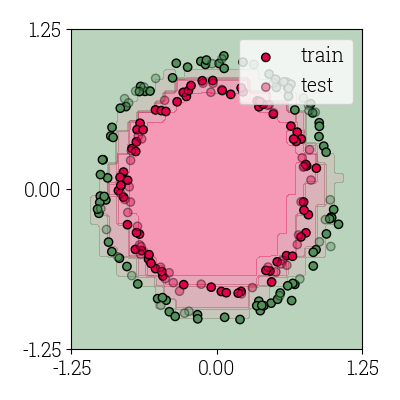
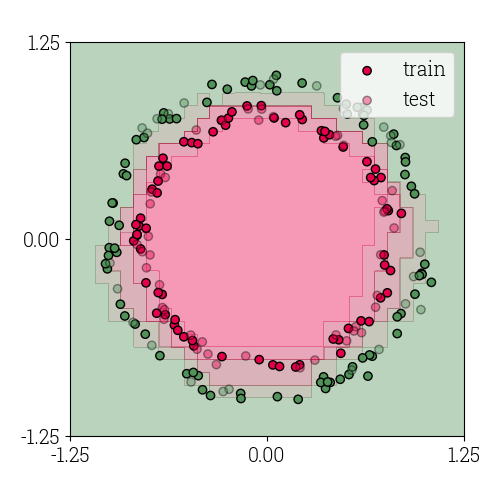
Update mlp_quantization_analysis

Changed region(s): [[0.03, 0.06, 0.96, 0.96]]

diff --git a/extra/mlp_quantization_analysis/mlp_quantization_analysis.py b/extra/mlp_quantization_analysis/mlp_quantization_analysis.py
@@ -12,14 +12,11 @@ from tempfile import NamedTemporaryFile
 import matplotlib
 from matplotlib import font_manager
 from matplotlib.colors import ListedColormap
-from sklearn.datasets import make_circles
-from sklearn.model_selection import train_test_split
 import torch
-from torch.utils.data import TensorDataset, DataLoader
 import matplotlib.pyplot as plt
 
+from extra.mlp_quantization_analysis.torch_model import get_torch_model
 from numpy_quant.model import Model
-from numpy_quant.tensor import FTensor
 
 
 def get_google_fonts_ttf(weight: int):
@@ -428,59 +425,8 @@ def create_quantized_inference_script(inp: np.ndarray,
     return script
 
 
-class MultiLayerPerceptron(torch.nn.Module):
-    def __init__(self, input_size, hidden_size, output_size):
-        super(MultiLayerPerceptron, self).__init__()
-        self.input_size = input_size
-        self.hidden_size = hidden_size
-        self.output_size = output_size
-        self.fc1 = torch.nn.Linear(self.input_size, self.hidden_size, bias=True)
-        self.relu = torch.nn.ReLU()
-        self.fc2 = torch.nn.Linear(self.hidden_size, self.output_size, bias=True)
-        self.sigmoid = torch.nn.Sigmoid()
-
-    def forward(self, x):
-        hidden = self.fc1(x)
-        relu = self.relu(hidden)
-        output = self.fc2(relu)
-        output = self.sigmoid(output)
-        return output
-
-
-if __name__ == "__main__":
-    np.random.seed(0)
-    torch.manual_seed(1)
-
-    print("MLP Dataset")
-    n_samples = 1000
-    X, Y = make_circles(n_samples=n_samples, noise=0.03)
-    X = np.array(X, dtype=np.float32)
-    X_train, X_test, Y_train, Y_test = train_test_split(X, Y, train_size=0.7, random_state=0)
-    Y_train_one_hot = np.eye(2, dtype=np.float32)[Y_train]  # One-Hot encoding
-    trainset = TensorDataset(torch.tensor(X_train), torch.tensor(Y_train_one_hot))
-    trainloader = DataLoader(trainset, batch_size=1)
-
-    print("MLP Model Creation")
-    torch_model = MultiLayerPerceptron(input_size=X.shape[1], hidden_size=5, output_size=X.shape[1])
-
-    print("MLP Training")
-    optimizer = torch.optim.SGD(torch_model.parameters(), lr=0.2)
-    criterion = torch.nn.CrossEntropyLoss()
-    for epoch in range(10):
-        average_loss = 0.0
-        for i, (x, y) in enumerate(trainloader):
-            optimizer.zero_grad()
-            outputs = torch_model(x)
-            loss = criterion(outputs, y)
-            loss.backward()
-            optimizer.step()
-
-            average_loss += loss.item()
-        average_loss /= len(trainset)
-        test_outputs = torch_model(torch.tensor(X_test, requires_grad=False)).detach().numpy()
-        acc = np.mean(test_outputs.argmax(axis=1) == Y_test)
-        print(f" - Epoch: {epoch:2d}, Mean Accuracy: {acc:.2f}, Average Loss: {average_loss:.2f}")
-
+def get_model():
+    torch_model, X_train, X_test, Y_train, Y_test = get_torch_model()
     print("MLP ONNX export")
     args = torch.Tensor(X_test)
     onnx_model_bytes = io.BytesIO()
@@ -498,6 +444,12 @@ if __name__ == "__main__":
     onnx.checker.check_model(onnx_model)
 
     model = Model.from_onnx(onnx_model)
+
+    return model, X_train, X_test, Y_train, Y_test
+
+
+if __name__ == "__main__":
+    model, X_train, X_test, Y_train, Y_test = get_model()
 
     # Store all tensors of the model
     model_value_dict = {v.name: v for v in model.values}
@@ -641,7 +593,7 @@ if __name__ == "__main__":
     # # Create markdown table of the script's output
     z_f32, z_round_trip = perform_quantized_matmul(x1, True, x2, True, bit_width=8)
     table = create_np_array_markdown_table({"f32 matmul": z_f32,
-                                            "quantized mamtul": z_round_trip,
+                                            "quantized matmul": z_round_trip,
                                             "error": np.abs(z_f32 - z_round_trip)})
     with open("matmul_quantization_outputs/matmul_quantization_output.md", "w") as f:
         f.write(table)
@@ -745,9 +697,12 @@ if __name__ == "__main__":
         ax.set_title("Quantization accuracy drop for varying bit widths")
         ax.set_xlabel("bit width")
         ax.set_ylabel("test accuracy")
-        ax.plot(bit_widths, q_acc_w_asymm_a_asymm, color=main_colors[3], label="asymmetric weights, asymmetric activations")
-        ax.plot(bit_widths, q_acc_w_asymm_a_symm, color=main_colors[2], label="asymmetric weights, symmetric activations")
-        ax.plot(bit_widths, q_acc_w_symm_a_asymm, color=main_colors[1], label="symmetric weights, asymmetric activations")
+        ax.plot(bit_widths, q_acc_w_asymm_a_asymm, color=main_colors[3],
+                label="asymmetric weights, asymmetric activations")
+        ax.plot(bit_widths, q_acc_w_asymm_a_symm, color=main_colors[2],
+                label="asymmetric weights, symmetric activations")
+        ax.plot(bit_widths, q_acc_w_symm_a_asymm, color=main_colors[1],
+                label="symmetric weights, asymmetric activations")
         ax.plot(bit_widths, q_acc_w_symm_a_symm, color=main_colors[0], label="symmetric weights, symmetric activations")
         ax.legend(fontsize=10)
         ax.set_xticks(bit_widths)
@@ -762,9 +717,9 @@ if __name__ == "__main__":
     # Visualize Model Prediction
     def visualize_model_prediction(bit_width: int | None = None):
         xmin, xmax = -1.25, 1.25
-        x = np.linspace(xmin, xmax, 100, dtype=np.float32)
+        x = np.linspace(xmin, xmax, 1000, dtype=np.float32)
         ymin, ymax = -1.25, 1.25
-        y = np.linspace(ymin, ymax, 100, dtype=np.float32)
+        y = np.linspace(ymin, ymax, 1000, dtype=np.float32)
         xv, yv = np.meshgrid(x, y)
         grid_input = np.concatenate((xv.reshape((-1, 1)), yv.reshape((-1, 1))), axis=1)
         # grid_output = _model([FTensor(grid_input)])[0].data
@@ -774,7 +729,7 @@ if __name__ == "__main__":
             grid_output = run_quantized_mlp_inference(grid_input, bit_width=bit_width)[1]
         zv = grid_output[:, 1].reshape((x.shape[0], y.shape[0]))
 
-        fig, ax = plt.subplots(1, 1, tight_layout=True, figsize=(4, 4))
+        fig, ax = plt.subplots(1, 1, tight_layout=True, figsize=(5, 5))
 
         ax.contourf(x, y, zv, cmap=color_gradient_color_map, alpha=0.4)
         n_train = 150
@@ -787,6 +742,7 @@ if __name__ == "__main__":
         ax.set_xticks(xticks, [f"{t:.2f}" for t in xticks])
         yticks = np.linspace(ymin, ymax, 3)
         ax.set_yticks(yticks, [f"{t:.2f}" for t in yticks])
+        ax.set_aspect('equal')
         ax.legend(loc="upper right")
         return fig, ax
 

diff --git a/extra/mlp_quantization_analysis/torch_model.py b/extra/mlp_quantization_analysis/torch_model.py
@@ -1,0 +1,61 @@
+import numpy as np
+from sklearn.datasets import make_circles
+from sklearn.model_selection import train_test_split
+import torch
+from torch.utils.data import TensorDataset, DataLoader
+
+
+class MultiLayerPerceptron(torch.nn.Module):
+    def __init__(self, input_size, hidden_size, output_size):
+        super(MultiLayerPerceptron, self).__init__()
+        self.input_size = input_size
+        self.hidden_size = hidden_size
+        self.output_size = output_size
+        self.fc1 = torch.nn.Linear(self.input_size, self.hidden_size, bias=True)
+        self.relu = torch.nn.ReLU()
+        self.fc2 = torch.nn.Linear(self.hidden_size, self.output_size, bias=True)
+        self.sigmoid = torch.nn.Sigmoid()
+
+    def forward(self, x):
+        hidden = self.fc1(x)
+        relu = self.relu(hidden)
+        output = self.fc2(relu)
+        output = self.sigmoid(output)
+        return output
+
+
+def get_torch_model():
+    np.random.seed(0)
+    torch.manual_seed(1)
+
+    print("MLP Dataset")
+    n_samples = 1000
+    X, Y = make_circles(n_samples=n_samples, noise=0.03)
+    X = np.array(X, dtype=np.float32)
+    X_train, X_test, Y_train, Y_test = train_test_split(X, Y, train_size=0.7, random_state=0)
+    Y_train_one_hot = np.eye(2, dtype=np.float32)[Y_train]  # One-Hot encoding
+    trainset = TensorDataset(torch.tensor(X_train), torch.tensor(Y_train_one_hot))
+    trainloader = DataLoader(trainset, batch_size=1)
+
+    print("MLP Model Creation")
+    torch_model = MultiLayerPerceptron(input_size=X.shape[1], hidden_size=5, output_size=X.shape[1])
+
+    print("MLP Training")
+    optimizer = torch.optim.SGD(torch_model.parameters(), lr=0.2)
+    criterion = torch.nn.CrossEntropyLoss()
+    for epoch in range(10):
+        average_loss = 0.0
+        for i, (x, y) in enumerate(trainloader):
+            optimizer.zero_grad()
+            outputs = torch_model(x)
+            loss = criterion(outputs, y)
+            loss.backward()
+            optimizer.step()
+
+            average_loss += loss.item()
+        average_loss /= len(trainset)
+        test_outputs = torch_model(torch.tensor(X_test, requires_grad=False)).detach().numpy()
+        acc = np.mean(test_outputs.argmax(axis=1) == Y_test)
+        print(f" - Epoch: {epoch:2d}, Mean Accuracy: {acc:.2f}, Average Loss: {average_loss:.2f}")
+
+    return torch_model, X_train, X_test, Y_train, Y_test

diff --git a/extra/mlp_quantization_analysis/matmul_quantization_outputs/matmul_quantization_output.md b/extra/mlp_quantization_analysis/matmul_quantization_outputs/matmul_quantization_output.md
@@ -1,4 +1,4 @@
-|f32 matmul|       |       |       |       |  |quantized mamtul|       |       |      |       |  | error|      |      |      |      
+|f32 matmul|       |       |       |       |  |quantized matmul|       |       |      |       |  | error|      |      |      |      
 |:--------:|:-----:|:-----:|:-----:|:-----:|::|:--------------:|:-----:|:-----:|:----:|:-----:|::|:----:|:----:|:----:|:----:|:----:|
 |   -3.4217| 3.3507| 2.4843|-0.0110|-1.6025|  |         -3.4154| 3.3484| 2.4779|0.0000|-1.6407|  |0.0063|0.0022|0.0065|0.0110|0.0382|
 |    1.5249| 0.6578|-3.0445| 3.7138|-2.5017|  |          1.5403| 0.6362|-3.0806|3.6833|-2.4779|  |0.0154|0.0216|0.0361|0.0306|0.0238|
